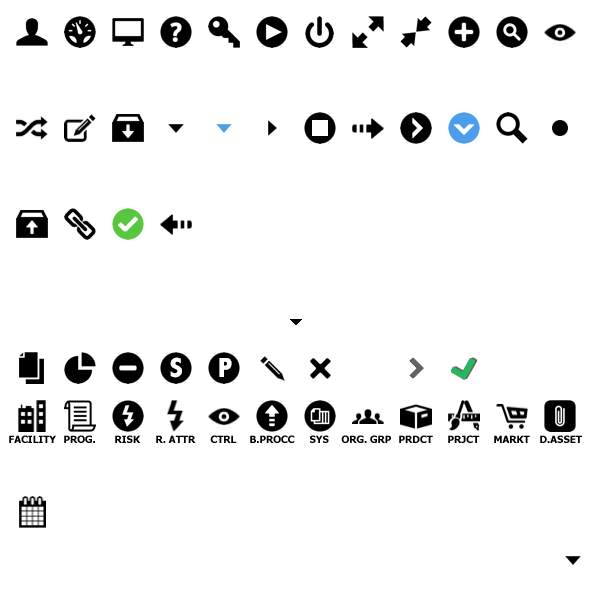
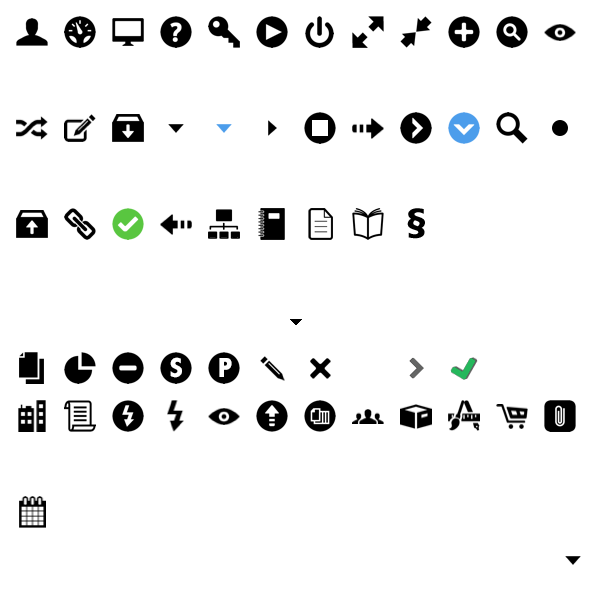
sample implementation of governance objects

diff --git a/app/assets/stylesheets/_icons.scss b/app/assets/stylesheets/_icons.scss
@@ -331,6 +331,7 @@
 // diferentiation of objects by icons
 .grcobject {
   display: inline-block;
+  margin-right:4px;
   width: 24px;
   height: 24px;
   background-image: url("/images/grcicons/objects.png");
@@ -354,6 +355,15 @@
     margin-top:4px;
     margin-left:4px;
   }
-
-
 }
+
+.grcicon-program { background-position:-104px -128px; }
+.grcicon-program-black { background-position:-104px -104px; }
+.grcicon-contract { background-position:-128px -128px; }
+.grcicon-contract-black { background-position:-128px -104px; }
+.grcicon-policy { background-position:-152px -128px; }
+.grcicon-policy-black { background-position:-152px -104px; }
+.grcicon-regulation { background-position:-176px -128px; }
+.grcicon-regulation-black { background-position:-176px -104px; }
+.grcicon-section { background-position:-200px -128px; }
+.grcicon-section-black { background-position:-200px -104px; }

diff --git a/app/assets/stylesheets/_widget.scss b/app/assets/stylesheets/_widget.scss
@@ -14,12 +14,11 @@
     padding:6px;
     h2 {
       @include transition(color 0.2s);
-      font-size: 15px;
+      font-size: 16px;
       font-weight:normal;
       line-height: 24px;
       color: $widgetTitle;
       margin-bottom:0;
-      @include text-shadow(0 1px 1px $white);
       @include oneline();
     }
     .btn-mini {
@@ -50,7 +49,7 @@
   }
   .filter {
     padding:6px;
-    background: $widgetFooteBgnd;
+    background: $filterBgnd;
     .form-inline {
       margin-bottom: 0;
     }

diff --git a/app/assets/stylesheets/_setup.scss b/app/assets/stylesheets/_setup.scss
@@ -8,9 +8,9 @@
 
   // widget
     $widgetBorder: #ccc;
-    $widgetHeader: #ccc;
-    $widgetTitle: #666;
-    
+    $widgetHeader: #ddd;
+    $widgetTitle: #111;
+    $filterBgnd: #eee;    
       // widget info
       $infoWidgetHeader: #111;
       
